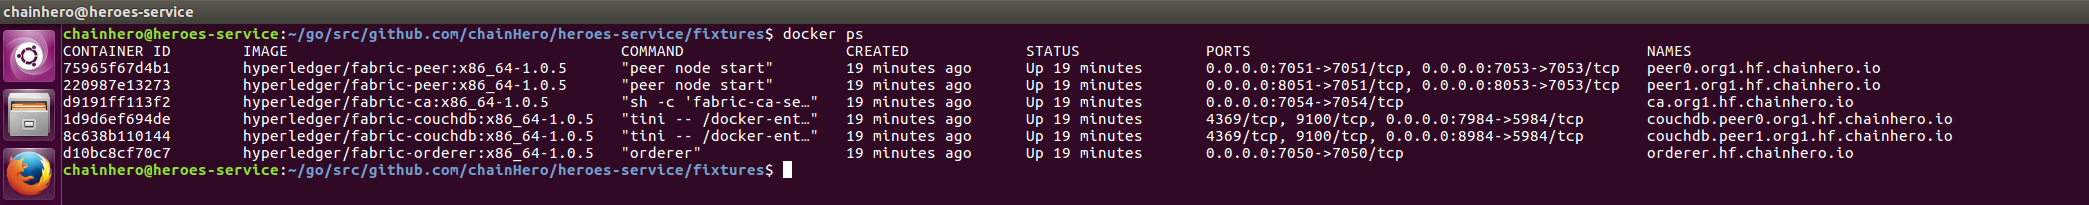
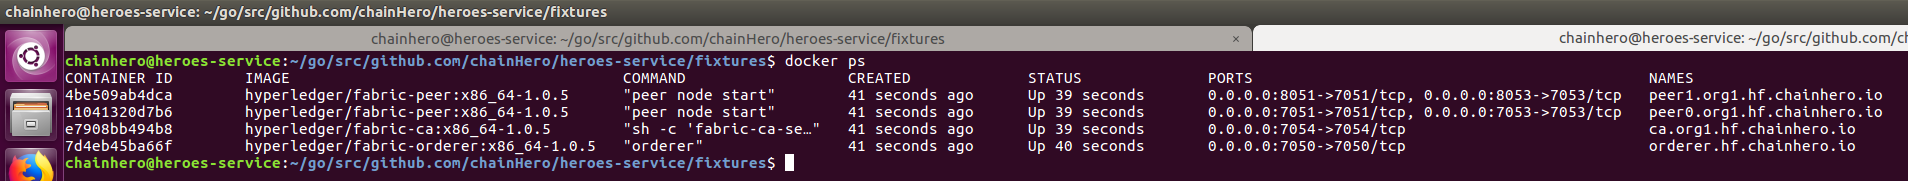
Upgrade screenshot of docker ps (no couchdb anymore) - Improve description

diff --git a/README.md b/README.md
@@ -229,11 +229,11 @@ docker ps
 
 ![Docker compose up screenshot](docs/images/docker-ps.png)
 
-You will see : two peers, the orderer, one CA containers and two dependencies (golangruntime and builder) You have successfully made a new network ready to use with the SDK. To stop the network go back to the previous terminal, press `Ctrl+C` and wait that all containers are stopped. If you want to explore more deeper, check out the official documentation about this: [Building Your First Network](http://hyperledger-fabric.readthedocs.io/en/latest/build_network.html)
+You will see : two peers, the orderer and one CA containers. You have successfully made a new network ready to use with the SDK. To stop the network go back to the previous terminal, press `Ctrl+C` and wait that all containers are stopped. If you want to explore more deeper, check out the official documentation about this: [Building Your First Network](http://hyperledger-fabric.readthedocs.io/en/latest/build_network.html)
 
-> **Tips**: when the network is stopped, all containers used remain accessible. This is very useful to check logs for example. You can see them with `docker ps -a`. In order to clean up these containers, you need to delete them with `docker rm $(docker ps -aq)` or if you have used a `docker-compose` file, go where this file is and run `docker-compose down`.
+> **Tips**: when the network is stopped, all containers used remain accessible. This is very useful to check logs for example. You can see stopped containers with `docker ps -a`. In order to clean up these containers, you need to delete them with `docker rm $(docker ps -aq)` or if you have used a `docker-compose` file, go where this file is and run `docker-compose down`.
 
-> **Tips**: you can run the `docker-compose` command in background to keep the prompt. To do so, use the parameter `-d`, like this: `docker-compose up -d`. To stop containers, run in the same folder where the `docker-compose.yaml` is, the command: `docker-compose stop` (or `docker-compose down` to clean up after all containers are stopped).
+> **Tips**: you can run the `docker-compose` command in background to keep the prompt. To do so, use the parameter `-d`, like this: `docker-compose up -d`. To stop containers, place yourself in the same folder where the `docker-compose.yaml` is and run : `docker-compose stop` (or `docker-compose down` to additionally clean up all containers when they are stopped).
 
 
 ## 5. Use the Fabric SDK Go
